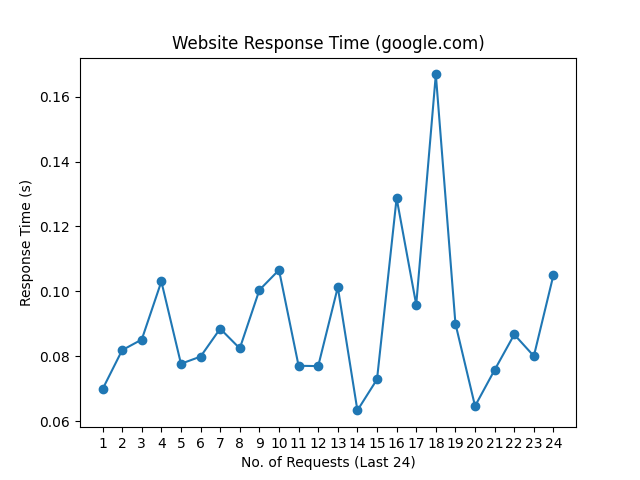
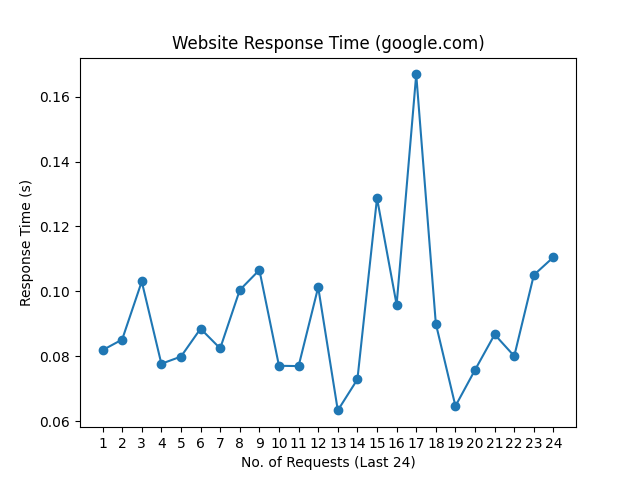
update README.md, history and graph

Changed region(s): [[0.1562, 0.125, 0.875, 0.875]]

diff --git a/README.md b/README.md
@@ -1,10 +1,10 @@
 # Web Monitoring
 
-Last Checked: 29/02/2024 08:58
+Last Checked: 01/03/2024 09:04
 
 | Website | Response Time (s) | Status | Avg Uptime (%) |
 |---------|-------------------|--------|----------------|
 | www.thiswebsiteisdown.net | 0 <br> <img src="graph/thiswebsiteisdown.net.png" alt="Graph" width="200" height="200">  | ❌ Down | 0.00 |
-| www.netflix.com | 1.025186 <br> <img src="graph/netflix.com.png" alt="Graph" width="200" height="200">  | ✅ Up | 100.00 |
-| www.google.com | 0.105052 <br> <img src="graph/google.com.png" alt="Graph" width="200" height="200">  | ✅ Up | 100.00 |
-| www.facebook.com | 0.676218 <br> <img src="graph/facebook.com.png" alt="Graph" width="200" height="200">  | ✅ Up | 100.00 |
+| www.netflix.com | 0.442493 <br> <img src="graph/netflix.com.png" alt="Graph" width="200" height="200">  | ✅ Up | 100.00 |
+| www.google.com | 0.110550 <br> <img src="graph/google.com.png" alt="Graph" width="200" height="200">  | ✅ Up | 100.00 |
+| www.facebook.com | 0.340656 <br> <img src="graph/facebook.com.png" alt="Graph" width="200" height="200">  | ✅ Up | 100.00 |
